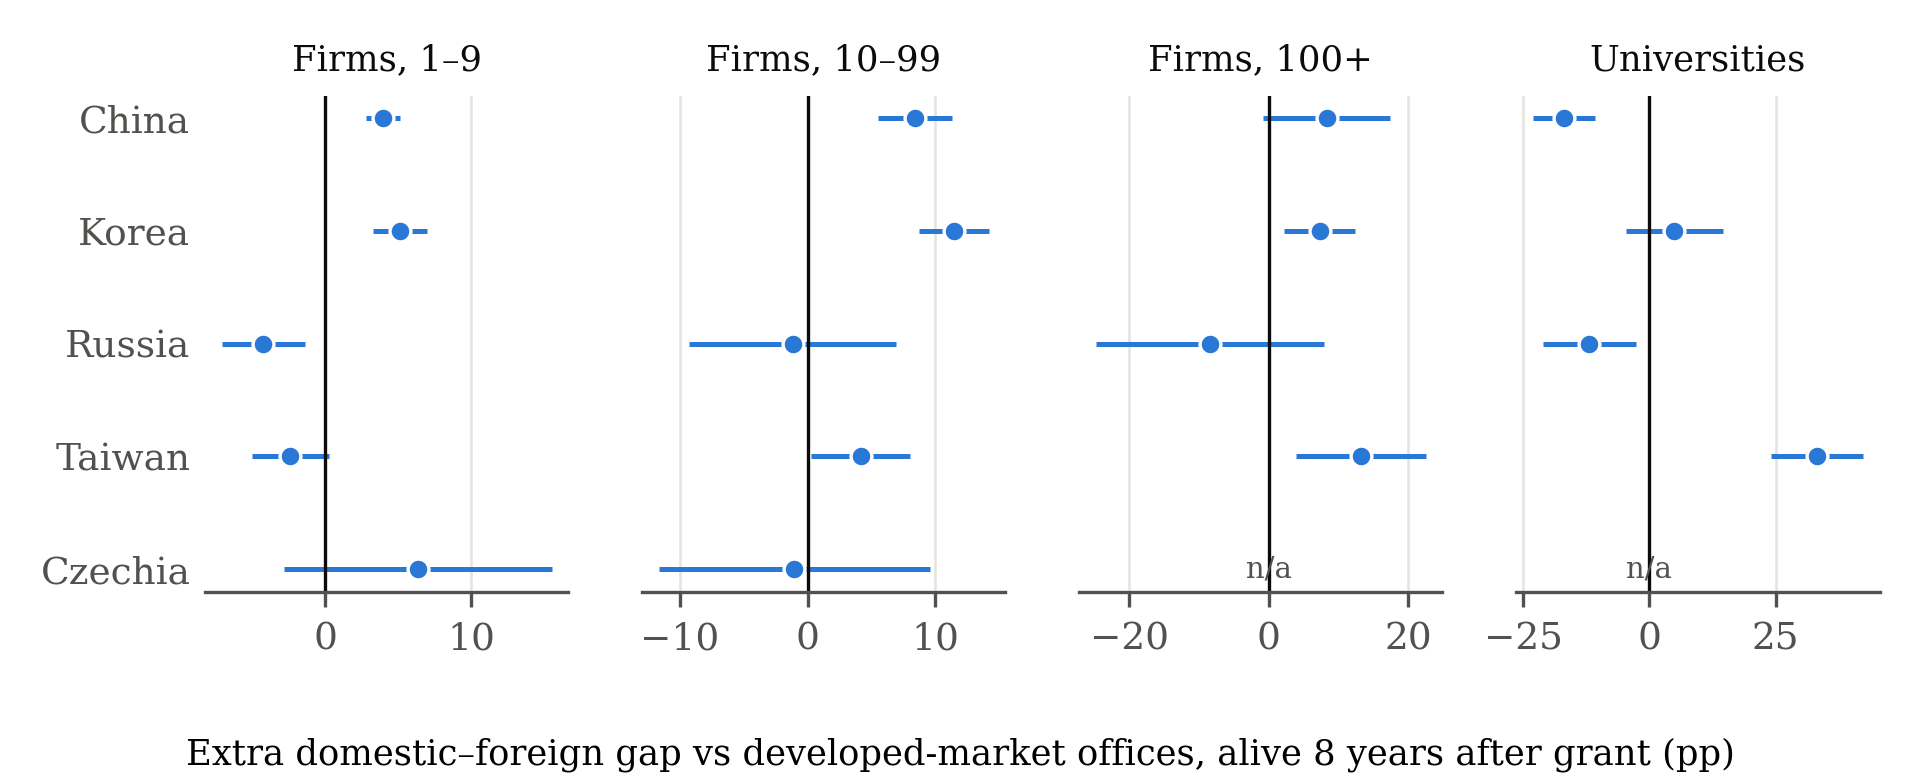
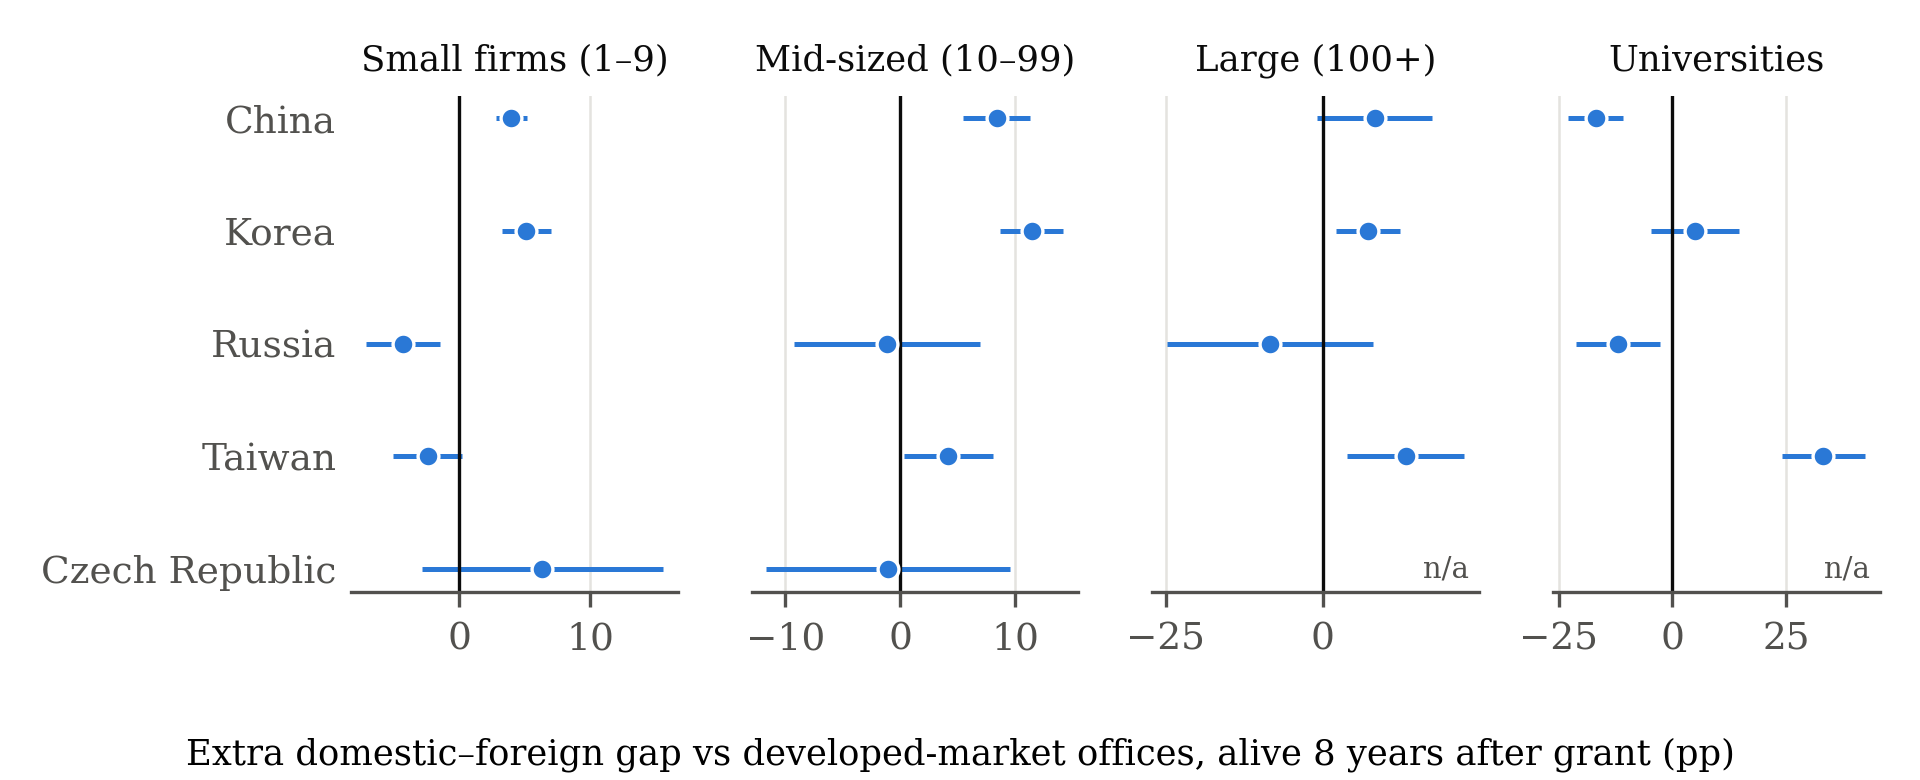
By-country figure updated (new size groups, labels) and moved to the appendix

diff --git a/sections/survival.tex b/sections/survival.tex
@@ -28,17 +28,7 @@ firm size by 2--3 points (Appendix Table~\ref{tab:rich}). Small emerging-market 
 (0.6), and 1.7 (0.7) points behind with family size, which itself partly reflects owners' capacity to file abroad;
 mid-sized and large firms remain 4--8 points ahead.
 
-\begin{figure}[t]
-\centering
-\includegraphics[width=0.9\textwidth]{figures/fig3_by_country.png}
-\caption{Each emerging-market office against the advanced-economy offices}\label{fig:country}
-\figurenotes{Coefficient $\delta$ of equation~\eqref{eq:did} estimated on one emerging-market office and the five
-advanced-economy offices, separately for each owner group, with 95\% confidence intervals (standard errors clustered
-by owner). Outcome: alive eight years after grant. The Czech Republic has no domestic firm with 100 or more inventions
-and too few domestic university patents (95).}
-\end{figure}
-
-\paragraph{By country.} Figure~\ref{fig:country} compares each emerging-market office with the five advanced-economy
+\paragraph{By country.} Appendix Figure~\ref{fig:country} compares each emerging-market office with the five advanced-economy
 offices, by owner group. Chinese and Korean firms of every size are ahead: small firms by 4.0 (0.6) and 5.1 (0.9)
 points, larger firms by 7--11 points. Small Czech firms are ahead by a similar amount, 6.4 points, though with a wide
 interval. Russia is the exception: small Russian firms are 4.3 (1.5) points behind, and Russian universities 11.9

diff --git a/sections/appendix.tex b/sections/appendix.tex
@@ -135,6 +135,17 @@ Fit error (pp)              & 2.9 & 3.7 & 6.5 & 2.9 & 3.4 & 1.6 & 2.7 & 2.4 & 2.
 
 \section{Additional results}\label{app:results}
 
+\begin{figure}[ht]
+\centering
+\includegraphics[width=0.95\textwidth]{figures/fig3_by_country.png}
+\caption{Each emerging-market office against the advanced-economy offices}\label{fig:country}
+\figurenotes{Coefficient $\delta$ of equation~\eqref{eq:did} estimated on one emerging-market office and the five
+advanced-economy offices, separately for each owner group, with office $\times$ filing-year and office $\times$ field
+effects and office-specific citation slopes; 95\% confidence intervals (standard errors clustered by owner). Outcome:
+alive eight years after grant. Firm size: inventions filed worldwide in 2000--2005. n/a: the Czech Republic has no
+domestic firm with 100 or more inventions and too few domestic university patents (95).}
+\end{figure}
+
 \begin{table}[ht]
 \centering
 \begin{threeparttable}
